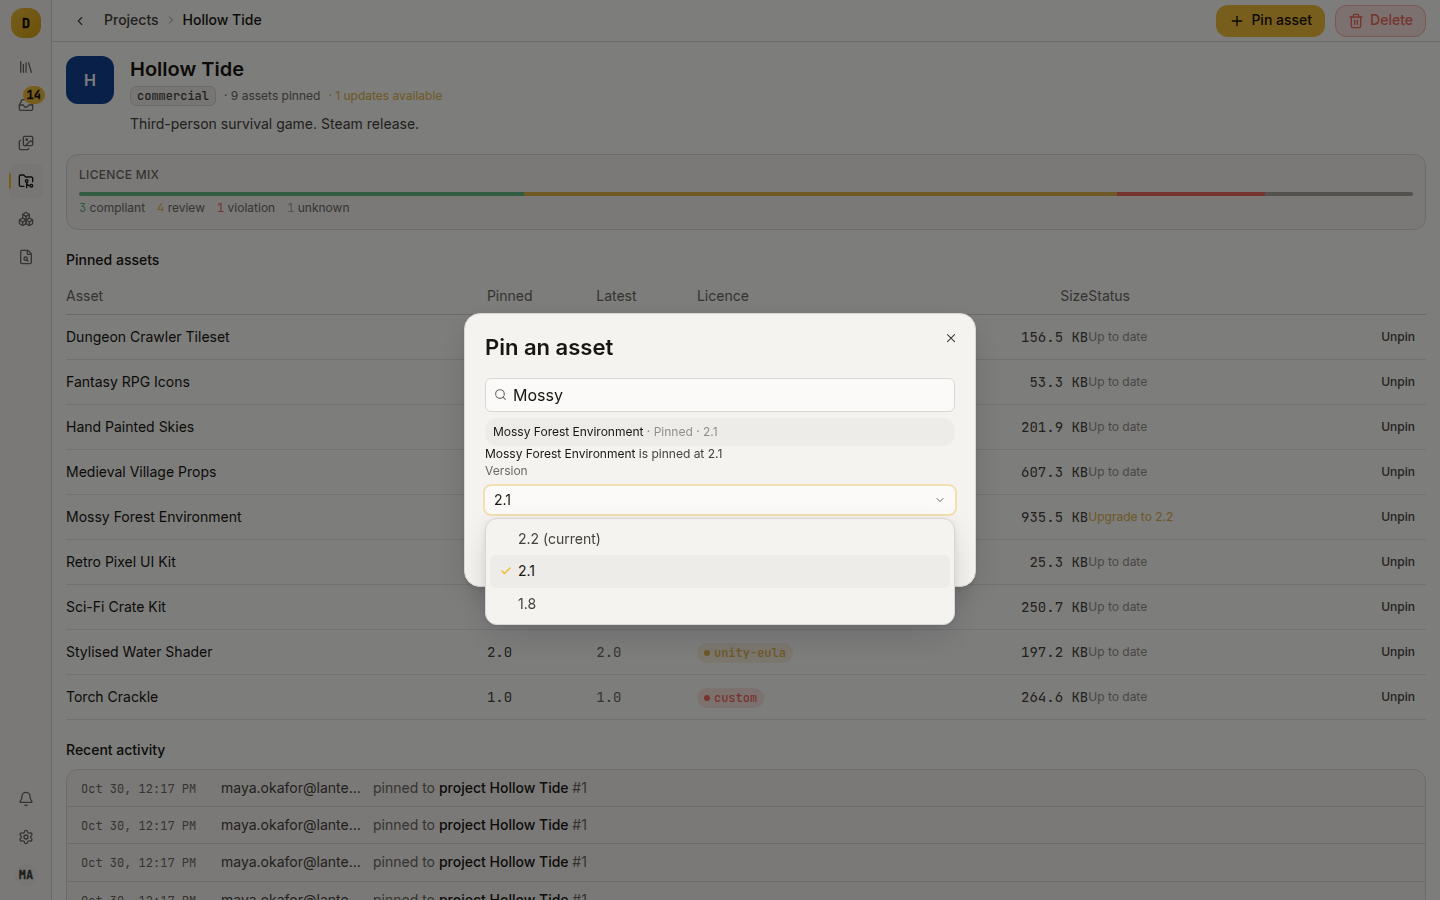
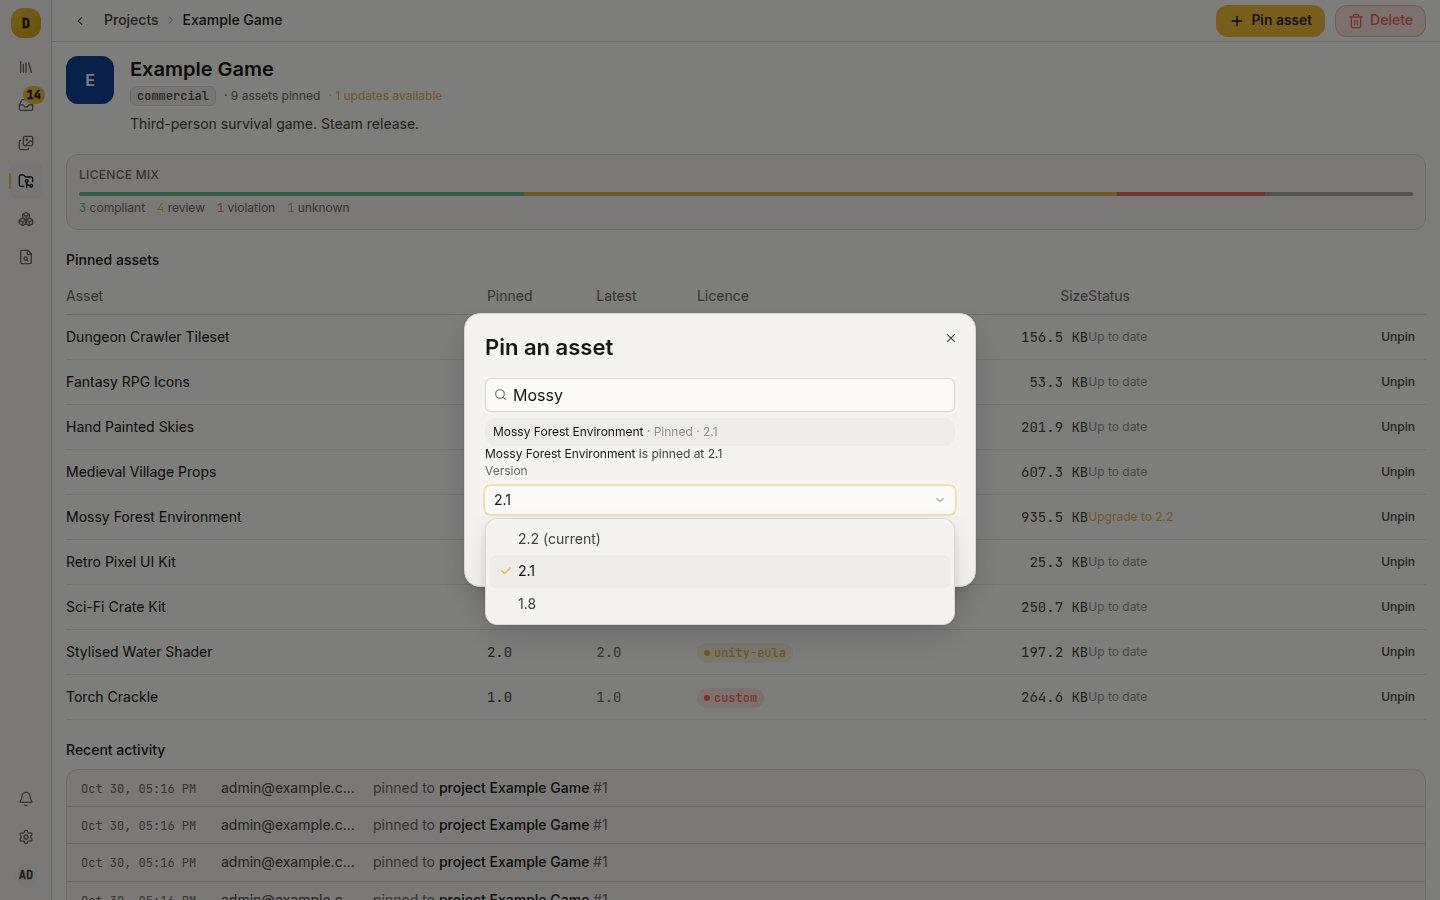
Replace real-looking names and domains in the doc screenshots
The screenshots showed a plausible person's name and email on a
studio-looking domain, plus invented publisher names. Retake the set
with admin@example.com, member@example.com and obviously generic
publisher, project and library names, and update the two docs that
named the second library.

diff --git a/docs/images/README.md b/docs/images/README.md
@@ -7,6 +7,7 @@ The images in this directory are used by the README, `docs/getting-started.md` a
 - A real instance: the built server and SPA, Postgres, local storage, signed in as a local-mode admin.
 - 1440×900 viewport, device scale factor 1, light theme, headless Chrome with no browser chrome in the frame. The one exception is `dmsn-sync-scan.png`, which is real `dmsn sync scan` output set in a terminal box.
 - Auto-enrich was off while importing. With it on, a pack whose name resembles a storefront listing picks up that listing's publisher, description and licence, and can be renamed.
+- Every person, email and company in the images is a placeholder: the admin is `admin@example.com`, the invited member is `member@example.com` ("Example Member"), and publishers are names like "Example Studio" and "Sample Works". Use `example.com` for any email address and keep names obviously fictional. Do not use a real person's or studio's name, or a domain you did not make up.
 - Sample packs were generated, not downloaded: stylised cover art, textures, fake meshes, short WAV loops, and licence files holding real licence text (Unity Asset Store EULA, MIT, Apache-2.0, CC0-1.0, GPL-3.0). Nothing in them comes from a third party's product.
 - Pack versions carry a version label equal to their store version, because the project page shows labels, not store versions. See [Pin a project to a version you have tested](../how-to/pin-versions.md).
 

diff --git a/docs/how-to/separate-libraries.md b/docs/how-to/separate-libraries.md
@@ -47,8 +47,8 @@ TOKEN=$(curl -sS -X POST localhost:8080/api/auth/login \
 curl -sS -X POST localhost:8080/api/libraries \
   -H "Authorization: Bearer $TOKEN" \
   -H 'Content-Type: application/json' \
-  -d '{"name":"Hollow Client Work","description":"Licensed material, do not reuse"}'
-# {"id":2,"name":"Hollow Client Work","description":"Licensed material, do not reuse"}
+  -d '{"name":"Client Work","description":"Licensed material, do not reuse"}'
+# {"id":2,"name":"Client Work","description":"Licensed material, do not reuse"}
 ```
 
 The creator becomes its admin. It does not become your current library; switching is a separate step.
@@ -59,7 +59,7 @@ No instance-wide setting restricts creation, so any authenticated user can creat
 
 The **Switch library** button in the header lists every library you belong to, with your role in each. Picking one changes your current library for every screen and API call.
 
-![The Switch library menu open, listing Personal and Project Hollow with their role badges and a tick on the current library](../images/library-switcher.png)
+![The Switch library menu open, listing Personal and Sample Library with their role badges and a tick on the current library](../images/library-switcher.png)
 
 Over the API:
 

diff --git a/docs/getting-started.md b/docs/getting-started.md
@@ -193,8 +193,8 @@ TOKEN=$(curl -sS -X POST localhost:8080/api/auth/login \
 curl -sS -X POST localhost:8080/api/libraries \
   -H "Authorization: Bearer $TOKEN" \
   -H 'Content-Type: application/json' \
-  -d '{"name":"Project Hollow","description":"Assets for the Hollow build"}'
-# {"id":2,"name":"Project Hollow","description":"Assets for the Hollow build"}
+  -d '{"name":"Sample Library","description":"Assets for the sample build"}'
+# {"id":2,"name":"Sample Library","description":"Assets for the sample build"}
 ```
 
 Whoever creates a library becomes its admin. The new library does not become
@@ -202,7 +202,7 @@ your current one. Switch to it from the library picker in the header (the
 **Switch library** button, which lists every library you belong to), or post the
 id to `/api/me/current-library`.
 
-![The Switch library menu open, listing Personal and Project Hollow with their role badges and a tick on the current library](images/library-switcher.png)
+![The Switch library menu open, listing Personal and Sample Library with their role badges and a tick on the current library](images/library-switcher.png)
 
 Local-mode login tokens last one hour, so log in again when you return to a
 shell the next day.
